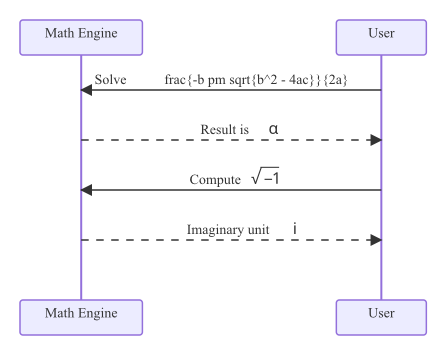
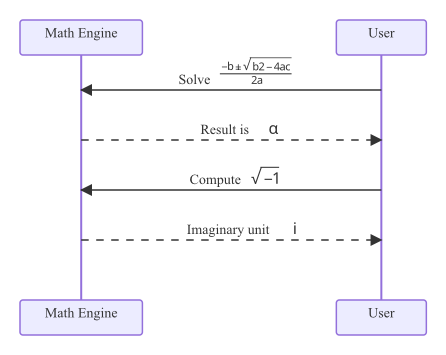
fix(math): flatten nested ^/_ instead of plain-text fallback
The previous error-on-nested-sup-sub path was making
\frac{-b \pm \sqrt{b^2 - 4ac}}{2a} render as the stripped plain text
\"frac{-b pm sqrt{b^2 - 4ac}}{2a}\" — visually worse than just losing
the exponent.

Switch to flattenNestedSupSub: drop only the ^/_ marker, keep the
operand glyphs. b^2 becomes b2 inline, the radical sign and fraction
bar still render, and every symbol from the source is preserved. The
exponent's vertical-shift typesetting is the only thing lost.

Changed region(s): [[0.3498, 0.1549, 0.787, 0.2479], [0.204, 0.2169, 0.2915, 0.2479]]

diff --git a/pkg/renderer/math/rich.go b/pkg/renderer/math/rich.go
@@ -33,23 +33,44 @@ func RenderRichWithBaseline(expr string, fontSize float64) (svg string, w, h, ba
 	scaled := fontSize * displayScale
 	parts, ok := splitTopLevel(expr)
 	if !ok || len(parts) == 1 && parts[0].kind == partMath {
-		// Refuse to silently mutate the math: if there are nested ^/_
-		// constructs we can't render (e.g. b^2 inside \sqrt{...}), the
-		// caller's panic recovery should kick in and produce a plain-text
-		// fallback rather than us stripping the operator and pretending
-		// the render succeeded.
-		if hasNestedSupSub(expr) {
-			return "", 0, 0, 0, fmt.Errorf("math render: unsupported nested superscript/subscript")
-		}
-		return renderRawWithBaseline(expr, scaled)
+		// Nested ^/_ (e.g. b^2 inside \sqrt{...}) is unsupported by
+		// mtex — but rendering the surrounding structure with the
+		// operand inlined (\frac{-b \pm \sqrt{b2 - 4ac}}{2a}) is far
+		// more useful than a stripped-backslash plain-text fallback
+		// like "frac{-b pm sqrt{b^2 - 4ac}}{2a}". Drop only the
+		// caret/underscore markers, keep the operand glyphs.
+		return renderRawWithBaseline(flattenNestedSupSub(expr), scaled)
 	}
 	return renderPartsWithBaseline(parts, scaled)
 }
 
+// flattenNestedSupSub strips `^` and `_` markers at any brace depth
+// while keeping the operand glyphs themselves, so that the surrounding
+// structure (fractions, roots, …) still renders. The output is not
+// mathematically equivalent — `b^2` becomes `b2` — but every visible
+// symbol from the source is preserved and the reader can still
+// recognise the formula.
+func flattenNestedSupSub(expr string) string {
+	var sb strings.Builder
+	for i := 0; i < len(expr); i++ {
+		c := expr[i]
+		if c == '\\' && i+1 < len(expr) {
+			sb.WriteByte(c)
+			sb.WriteByte(expr[i+1])
+			i++
+			continue
+		}
+		if c == '^' || c == '_' {
+			continue // drop the marker, keep the operand we encounter next
+		}
+		sb.WriteByte(c)
+	}
+	return sb.String()
+}
+
 // hasNestedSupSub reports whether expr contains a `^` or `_` token at
-// any brace depth. mtex panics on these constructs and there is no way
-// to render them without a full custom typesetter, so callers fall back
-// to plain text rather than risk altering the mathematical meaning.
+// any brace depth. Used as a guard before passing an expression to
+// mtex's recursive renderer.
 func hasNestedSupSub(expr string) bool {
 	for i := 0; i < len(expr); i++ {
 		c := expr[i]
@@ -205,10 +226,7 @@ func renderPartsWithBaseline(parts []rawPart, fontSize float64) (svg string, tot
 	for _, p := range parts {
 		switch p.kind {
 		case partMath:
-			if hasNestedSupSub(p.expr) {
-				return "", 0, 0, 0, fmt.Errorf("math render: unsupported nested superscript/subscript")
-			}
-			s, pw, ph, pb, e := renderRawWithBaseline(p.expr, fontSize)
+			s, pw, ph, pb, e := renderRawWithBaseline(flattenNestedSupSub(p.expr), fontSize)
 			if e != nil {
 				return "", 0, 0, 0, e
 			}

diff --git a/pkg/renderer/math/rich_test.go b/pkg/renderer/math/rich_test.go
@@ -232,15 +232,35 @@ func TestRenderRichSupWithCommaOperand(t *testing.T) {
 	}
 }
 
-func TestRenderRichRejectsNestedSupSub(t *testing.T) {
+func TestRenderRichFlattensNestedSupSub(t *testing.T) {
 	// \frac{a}{b^2} has a nested superscript inside the denominator
-	// brace, which mtex cannot render. RenderRich should return an
-	// error rather than silently dropping the ^2.
-	_, _, _, err := RenderRich(`\frac{a}{b^2}`, 14)
-	if err == nil {
-		t.Fatal("expected error for nested superscript, got nil")
+	// that mtex cannot render. RenderRich flattens to \frac{a}{b2}
+	// rather than failing the render — the surrounding structure is
+	// preserved even though the exponent is lost.
+	svg, w, h, err := RenderRich(`\frac{a}{b^2}`, 14)
+	if err != nil {
+		t.Skipf("math rendering not available in test environment: %v", err)
 	}
-	if !strings.Contains(err.Error(), "nested superscript") {
-		t.Errorf("error = %q, want substring 'nested superscript'", err.Error())
+	if w <= 0 || h <= 0 {
+		t.Errorf("invalid dimensions: w=%g h=%g", w, h)
+	}
+	if svg == "" {
+		t.Error("expected non-empty svg output")
+	}
+}
+
+func TestFlattenNestedSupSub(t *testing.T) {
+	cases := map[string]string{
+		`a + b`:              `a + b`,
+		`b^2`:                `b2`,
+		`x_i`:                `xi`,
+		`\frac{a}{b^2}`:      `\frac{a}{b2}`,
+		`\sqrt{b^2 - 4ac}`:   `\sqrt{b2 - 4ac}`,
+		`a^{n+1}`:            `a{n+1}`, // marker gone; the brace group survives
+	}
+	for in, want := range cases {
+		if got := flattenNestedSupSub(in); got != want {
+			t.Errorf("flattenNestedSupSub(%q) = %q, want %q", in, got, want)
+		}
 	}
 }
